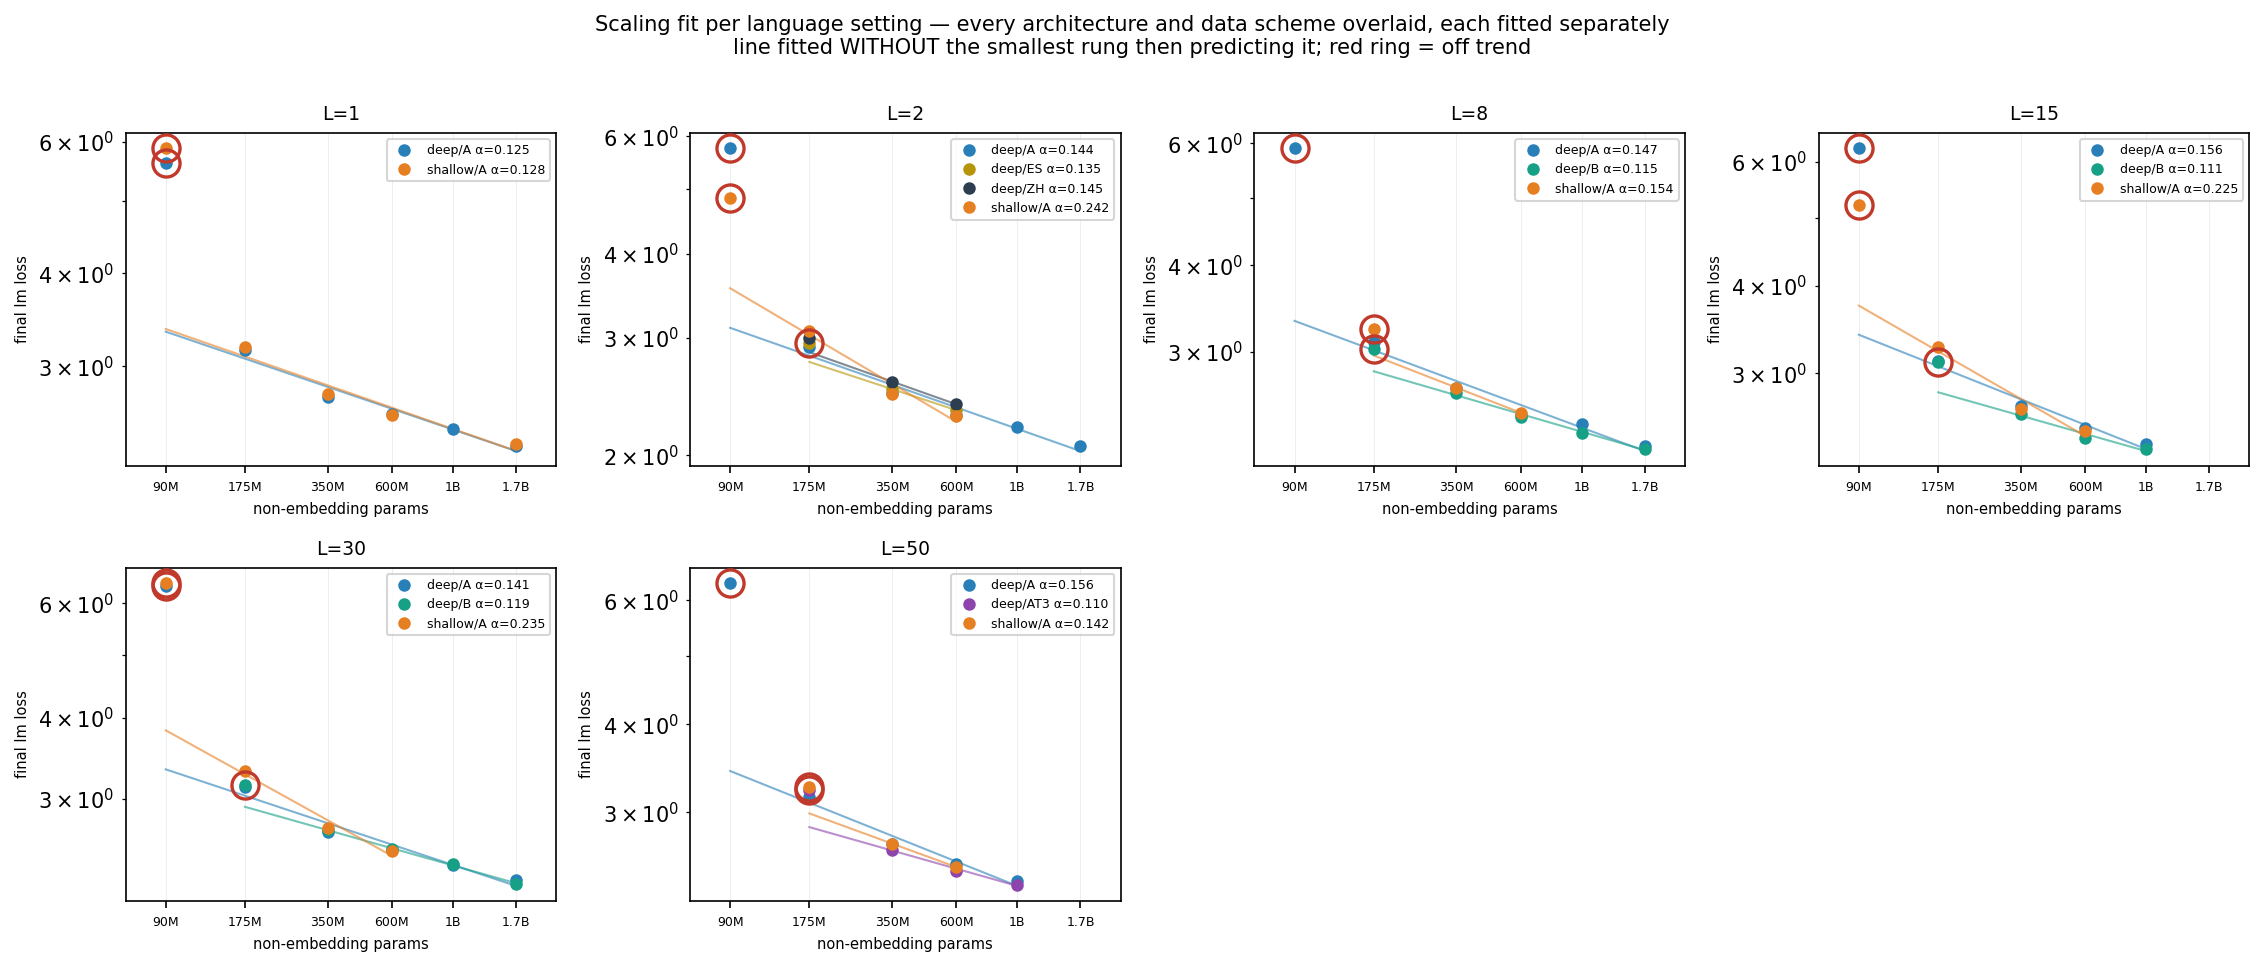
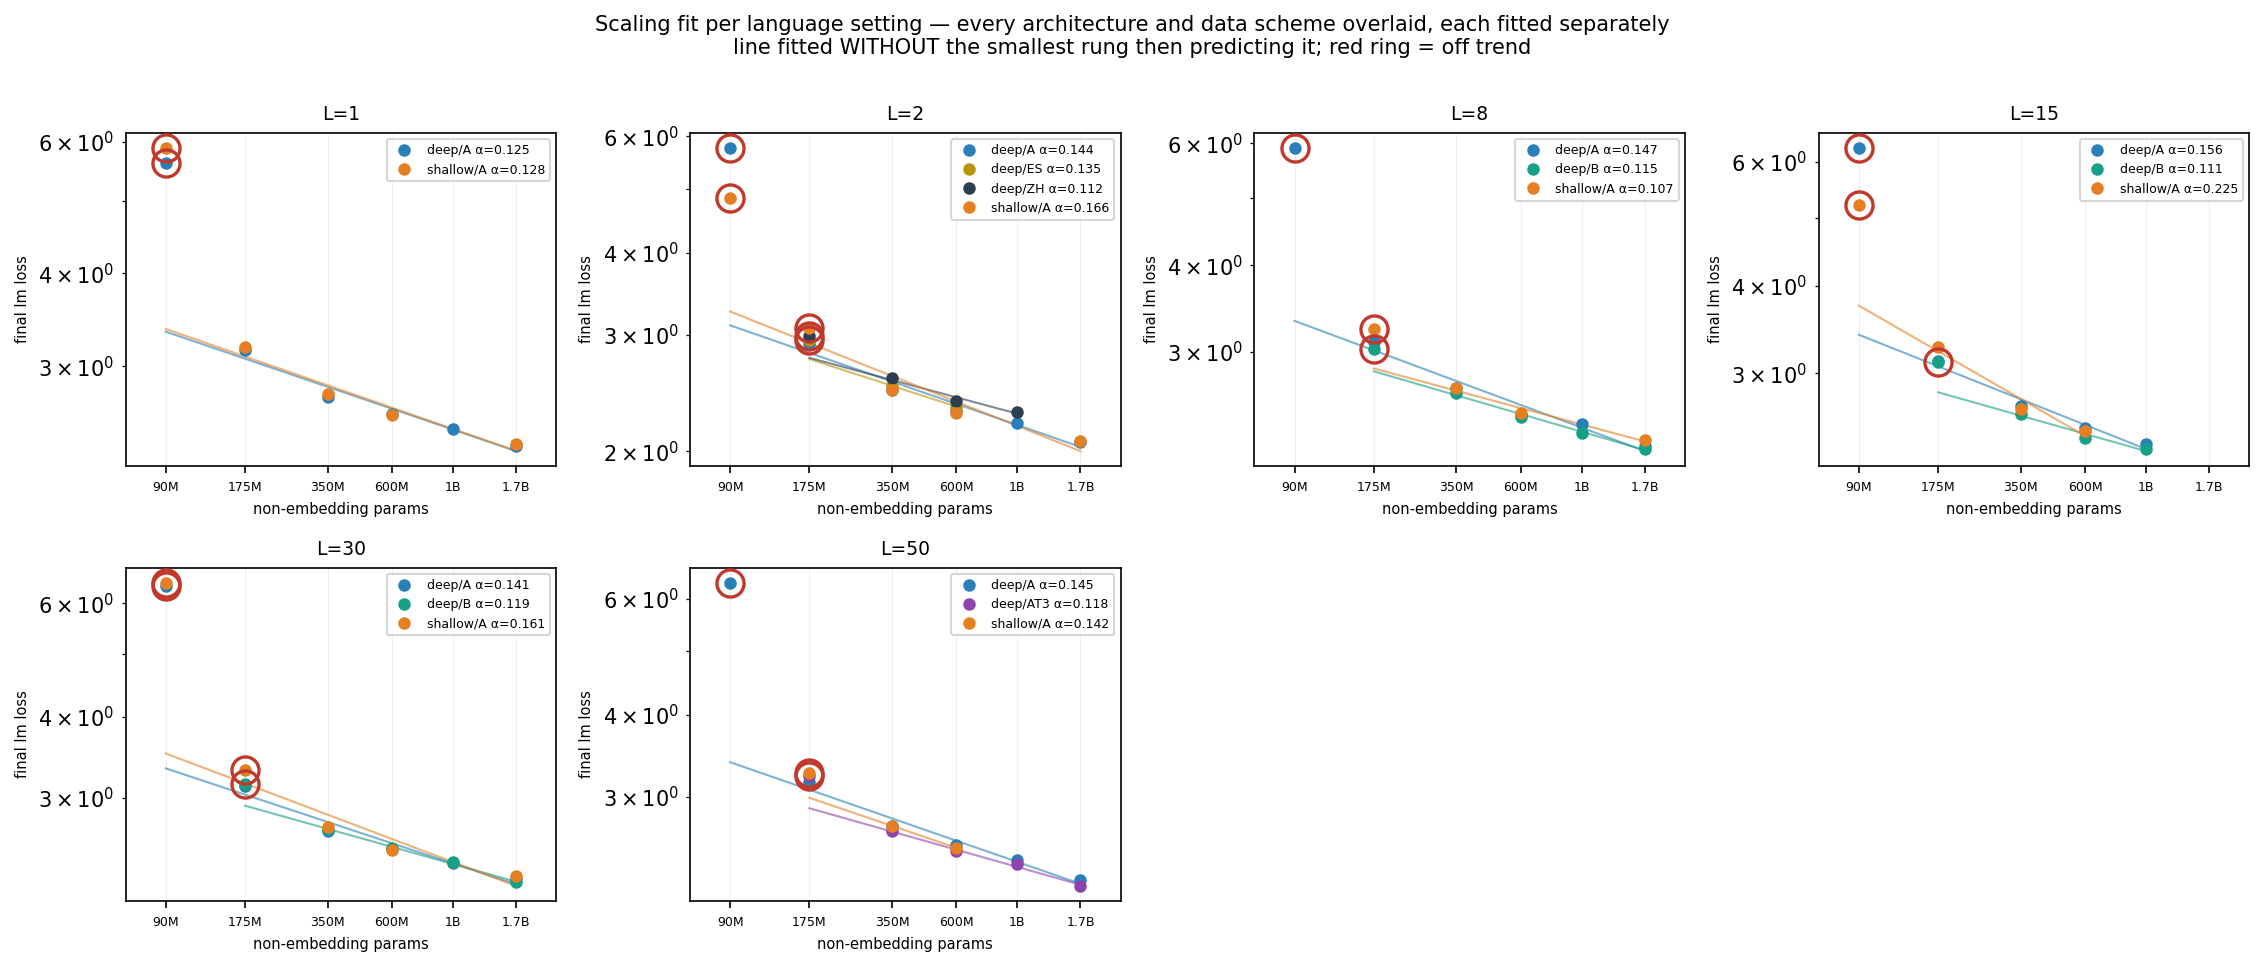
update progress

diff --git a/src/pretrain/ladder_report.md b/src/pretrain/ladder_report.md
@@ -24,41 +24,44 @@
 | 1.7B-L1-deep | 2.349 | 2.317 (79703) |  | +0.04 | 1.504 |
 | 1.7B-L1-shallow | 2.359 | 2.326 (79703) |  | +0.05 | 1.514 |
 | 90M-L2-deep | 5.762 | 4.397 (897) | **yes** | **+2.66** | 12.522 |
-| 90M-L2-shallow | 4.846 | 4.612 (1231) |  | **+1.29** | 4.363 |
+| 90M-L2-shallow | 4.846 | 4.612 (1231) |  | **+1.59** | 4.363 |
 | 175M-L2-deep | 2.904 | 2.870 (7262) |  | +0.09 | 2.094 |
 | 175M-L2-deep-seed313 | 2.945 | 2.905 (8131) |  |  | 2.100 |
 | 175M-L2-deep-seed64 | 2.930 | 2.883 (7744) |  |  | 2.084 |
 | 175M-L2-ES-deep | 2.944 | 2.907 (8205) |  | **+0.19** | 2.158 |
-| 175M-L2-ZH-deep | 2.990 | 2.952 (8424) |  | +0.14 | 2.168 |
-| 175M-L2-shallow | 3.071 | 2.997 (8130) |  | +0.04 | 2.178 |
+| 175M-L2-ZH-deep | 2.990 | 2.952 (8424) |  | **+0.22** | 2.168 |
+| 175M-L2-shallow | 3.071 | 2.997 (8130) |  | **+0.16** | 2.178 |
 | 350M-L2-deep | 2.480 | 2.423 (15914) |  | -0.07 | 1.773 |
 | 350M-L2-ES-deep | 2.512 | 2.466 (16326) |  | +0.00 | 1.829 |
-| 350M-L2-ZH-deep | 2.579 | 2.538 (16161) |  | +0.00 | 1.849 |
-| 350M-L2-shallow | 2.474 | 2.418 (15914) |  | -0.08 | 1.764 |
+| 350M-L2-ZH-deep | 2.579 | 2.538 (16161) |  | +0.02 | 1.849 |
+| 350M-L2-shallow | 2.474 | 2.418 (15914) |  | -0.13 | 1.764 |
 | 600M-L2-deep | 2.297 | 2.266 (26341) |  | -0.06 | 1.669 |
 | 600M-L2-deep-seed313 | 2.293 | 2.257 (28033) |  |  | 1.655 |
 | 600M-L2-deep-seed64 | 2.315 | 2.252 (28234) |  |  | 1.649 |
 | 600M-L2-ES-deep | 2.337 | 2.301 (28245) |  | +0.00 | 1.734 |
-| 600M-L2-ZH-deep | 2.384 | 2.371 (27424) |  | +0.00 | 1.750 |
-| 600M-L2-shallow | 2.289 | 2.249 (29787) |  | +0.04 | 1.650 |
+| 600M-L2-ZH-deep | 2.384 | 2.371 (27424) |  | -0.03 | 1.750 |
+| 600M-L2-shallow | 2.289 | 2.249 (29787) |  | -0.09 | 1.650 |
 | 1B-L2-deep-seed1797 | 2.170 | 2.139 (43413) |  |  | 1.570 |
 | 1B-L2-deep | 2.205 | 2.139 (45032) |  | +0.01 | 1.569 |
 | 1B-L2-deep-seed28 | 2.212 | 2.143 (44502) |  |  | 1.564 |
+| 1B-L2-ZH-deep | 2.294 | 2.247 (44526) |  | +0.01 | — |
 | 1.7B-L2-deep | 2.067 | 2.027 (79128) |  | +0.04 | 1.483 |
+| 1.7B-L2-shallow | 2.073 | 2.026 (79128) |  | +0.07 | — |
 | 90M-L8-deep | 5.906 | 4.536 (830) | **yes** | **+2.58** | 17.068 |
 | 175M-L8-deep | 3.102 | 3.068 (8200) |  | +0.09 | 2.060 |
 | 175M-L8-schemeB-deep | 3.027 | 3.012 (8178) |  | **+0.22** | 2.046 |
-| 175M-L8-shallow | 3.238 | 3.175 (8200) |  | **+0.28** | 2.150 |
+| 175M-L8-shallow | 3.238 | 3.175 (8200) |  | **+0.40** | 2.150 |
 | 350M-L8-deep | 2.659 | 2.615 (14841) |  | -0.06 | 1.744 |
 | 350M-L8-schemeB-deep | 2.613 | 2.560 (16223) |  | +0.02 | 1.746 |
-| 350M-L8-shallow | 2.662 | 2.609 (16743) |  | +0.00 | 1.753 |
+| 350M-L8-shallow | 2.662 | 2.609 (16743) |  | +0.03 | 1.753 |
 | 600M-L8-deep | 2.432 | 2.432 (28800) |  | -0.08 | 1.643 |
 | 600M-L8-schemeB-deep | 2.418 | 2.384 (27275) |  | -0.02 | 1.640 |
-| 600M-L8-shallow | 2.450 | 2.422 (29361) |  | +0.00 | 1.637 |
+| 600M-L8-shallow | 2.450 | 2.422 (29361) |  | -0.04 | 1.637 |
 | 1B-L8-deep | 2.357 | 2.298 (44913) |  | +0.03 | 1.586 |
 | 1B-L8-schemeB-deep | 2.293 | 2.262 (44965) |  | -0.01 | 1.554 |
 | 1.7B-L8-deep | 2.193 | 2.164 (80534) |  | +0.04 | 1.460 |
 | 1.7B-L8-schemeB-deep | 2.174 | 2.124 (79429) |  | +0.01 | 1.454 |
+| 1.7B-L8-shallow | 2.238 | 2.176 (80534) |  | +0.01 | — |
 | 90M-L15-deep | 6.282 | 4.595 (698) | **yes** | **+2.88** | 5.225 |
 | 90M-L15-shallow | 5.208 | 4.818 (685) | **yes** | **+1.46** | 4.728 |
 | 175M-L15-deep | 3.119 | 3.089 (8108) |  | +0.05 | 1.936 |
@@ -70,19 +73,19 @@
 | 600M-L15-deep | 2.506 | 2.477 (27805) |  | -0.03 | 1.595 |
 | 600M-L15-schemeB-deep | 2.429 | 2.405 (27865) |  | -0.03 | 1.609 |
 | 600M-L15-shallow | 2.487 | 2.459 (29787) |  | +0.04 | 1.570 |
-| 1B-L15-deep | 2.378 | 2.327 (44913) |  | +0.04 | — |
+| 1B-L15-deep | 2.378 | 2.327 (44913) |  | +0.04 | 1.500 |
 | 1B-L15-schemeB-deep | 2.339 | 2.275 (44768) |  | +0.01 | 1.524 |
 | 90M-L30-deep | 6.389 | 4.475 (766) | **yes** | **+3.06** | 6.525 |
-| 90M-L30-shallow | 6.452 | 4.885 (599) | **yes** | **+2.63** | 4.743 |
+| 90M-L30-shallow | 6.452 | 4.885 (599) | **yes** | **+2.94** | 4.743 |
 | 175M-L30-deep | 3.129 | 3.085 (8397) |  | +0.10 | 1.766 |
 | 175M-L30-schemeB-deep | 3.154 | 3.121 (8308) |  | **+0.24** | 1.819 |
-| 175M-L30-shallow | 3.313 | 3.279 (8203) |  | +0.04 | 1.886 |
+| 175M-L30-shallow | 3.313 | 3.279 (8203) |  | **+0.16** | 1.886 |
 | 350M-L30-deep | 2.666 | 2.644 (16294) |  | -0.08 | 1.551 |
 | 350M-L30-schemeB-deep | 2.684 | 2.634 (14913) |  | -0.00 | 1.561 |
-| 350M-L30-shallow | 2.703 | 2.652 (16294) |  | -0.08 | 1.543 |
+| 350M-L30-shallow | 2.703 | 2.652 (16294) |  | -0.12 | 1.543 |
 | 600M-L30-deep | 2.498 | 2.475 (28069) |  | -0.05 | 1.451 |
 | 600M-L30-schemeB-deep | 2.512 | 2.453 (28792) |  | -0.01 | 1.469 |
-| 600M-L30-shallow | 2.490 | 2.464 (29059) |  | +0.04 | 1.440 |
+| 600M-L30-shallow | 2.490 | 2.464 (29059) |  | -0.10 | 1.440 |
 | 1B-L30-deep-seed1797 | 2.374 | 2.335 (43862) |  |  | 1.380 |
 | 1B-L30-deep | 2.373 | 2.327 (44990) |  | +0.00 | 1.373 |
 | 1B-L30-deep-seed28 | 2.375 | 2.336 (44395) |  |  | 1.372 |
@@ -91,30 +94,33 @@
 | 1B-L30-schemeB-deep-seed28 | 2.395 | 2.334 (44588) |  |  | 1.393 |
 | 1.7B-L30-deep | 2.249 | 2.190 (80714) |  | +0.05 | 1.280 |
 | 1.7B-L30-schemeB-deep | 2.218 | 2.181 (79461) |  | -0.01 | 1.296 |
-| 90M-L50-deep | 6.349 | 4.538 (790) | **yes** | **+2.91** | 6.977 |
-| 175M-L50-deep | 3.156 | 3.121 (7262) |  | +0.06 | 1.601 |
+| 1.7B-L30-shallow | 2.267 | 2.202 (78780) |  | +0.08 | — |
+| 90M-L50-deep | 6.349 | 4.538 (790) | **yes** | **+2.96** | 6.977 |
+| 175M-L50-deep | 3.156 | 3.121 (7262) |  | +0.08 | 1.601 |
 | 175M-L50-deep-seed313 | 3.147 | 3.107 (8433) |  |  | 1.601 |
 | 175M-L50-deep-seed64 | 3.193 | 3.143 (8236) |  |  | 1.625 |
-| 175M-L50-AT3-deep | 3.223 | 3.151 (8397) |  | **+0.36** | 1.584 |
+| 175M-L50-AT3-deep | 3.223 | 3.151 (8397) |  | **+0.34** | 1.584 |
 | 175M-L50-shallow | 3.263 | 3.206 (8229) |  | **+0.27** | 1.656 |
-| 350M-L50-deep | 2.708 | 2.666 (15570) |  | -0.07 | 1.371 |
-| 350M-L50-AT3-deep | 2.659 | 2.643 (15914) |  | +0.01 | 1.342 |
+| 350M-L50-deep | 2.708 | 2.666 (15570) |  | -0.08 | 1.371 |
+| 350M-L50-AT3-deep | 2.659 | 2.643 (15914) |  | +0.00 | 1.342 |
 | 350M-L50-shallow | 2.710 | 2.667 (15570) |  | +0.00 | 1.376 |
-| 600M-L50-deep | 2.532 | 2.498 (28656) |  | -0.02 | 1.302 |
+| 600M-L50-deep | 2.532 | 2.498 (28656) |  | -0.04 | 1.302 |
 | 600M-L50-deep-seed313 | 2.519 | 2.478 (28465) |  |  | 1.282 |
 | 600M-L50-deep-seed64 | 2.521 | 2.482 (28708) |  |  | 1.278 |
-| 600M-L50-AT3-deep | 2.481 | 2.457 (27994) |  | -0.02 | 1.255 |
+| 600M-L50-AT3-deep | 2.481 | 2.457 (27994) |  | -0.01 | 1.255 |
 | 600M-L50-shallow | 2.511 | 2.476 (29598) |  | +0.00 | 1.276 |
-| 1B-L50-deep | 2.402 | 2.336 (44736) |  | +0.04 | 1.209 |
-| 1B-L50-AT3-deep | 2.369 | 2.312 (42623) |  | +0.01 | — |
+| 1B-L50-deep | 2.402 | 2.336 (44736) |  | +0.01 | 1.209 |
+| 1B-L50-AT3-deep | 2.369 | 2.312 (42623) |  | +0.02 | — |
+| 1.7B-L50-deep | 2.243 | 2.194 (79351) |  | +0.03 | — |
+| 1.7B-L50-AT3-deep | 2.197 | 2.163 (78221) |  | -0.01 | — |
 
 ## Effect of each transformation
 
 | transformation | pairs | Δ final loss | Δ macro BPB | Δ mean benchmark |
 | -------------- | ----: | -----------: | ----------: | ---------------: |
 | seed | 30 | -0.061 .. +0.049 | -0.050 .. +0.034 | -0.045 .. +0.007 |
-| arch | 23 | -1.074 .. +0.259 | -8.159 .. +0.120 | -0.052 .. +0.014 |
-| scheme | 26 | -0.077 .. +0.099 | -0.046 .. +0.103 | -0.057 .. +0.014 |
+| arch | 26 | -1.074 .. +0.259 | -8.159 .. +0.120 | -0.052 .. +0.014 |
+| scheme | 28 | -0.077 .. +0.099 | -0.046 .. +0.103 | -0.057 .. +0.014 |
 
 **Read this against the `seed` row.** A transformation whose effect is no larger than re-rolling the seed is not a distinct model for SNR — it is the same model measured twice. An em dash means no matched pair exists yet.
 

diff --git a/plan/todos/status-09-15.md b/plan/todos/status-09-15.md
@@ -1,0 +1,73 @@
+# Commands
+
+Finish training and eval grid.
+
+✅ resume training of 1.7B models:
+python3.11 pretrain/launch_trainings.py cscs --size 1.7B
+python3.11 pretrain/launch_trainings.py cscs --size 1.7B --scheme B 
+python3.11 pretrain/launch_trainings.py cscs --size 1.7B --arch shallow
+python3.11 pretrain/launch_trainings.py cscs --size 1.7B --scheme B --arch shallow
+python3.11 pretrain/launch_trainings.py cscs --size 1.7B --scheme AT3
+python3.11 pretrain/launch_trainings.py cscs --size 1.7B --scheme AT3 --arch shallow
+python3.11 pretrain/launch_trainings.py cscs --size 1B --scheme AT3 --arch shallow
+
+cd Projects/snr-multilingual/ && bash scripts/reservation_drain.sh --max-nodes 84
+scontrol update jobid=3398524 reservation=SD-69241-apertus-1-5-0 
+
+✅ eval new ckpts:
+bash evals/scripts/launch_bpb.sh
+python3.11 pretrain/auto_evals_cscs.py --watch 1200
+
+✅ save new results:
+python3.11 pretrain/ladder_report.py --plot --publish --push-hf --push-git
+sbatch evals/scripts/mirror_eval_logs.sbatch 
+
+cd Projects/snr-multilingual/ && bash scripts/reservation_drain.sh --max-nodes 45  --interval 1800
+
+# Training
+
+Define L100:
+- Add language-specific tasks
+- Decide L100 list, build data mix, launch pretrainings
+
+# Evals
+
+BPB:
+- calculate BPB with final L100 validation
+- calculate absolute BPB (see details below)
+
+Update tasks list and reeval:
+- Add language-specific tasks
+- Add INCLUDE v2
+- Switch or drop LAMBADA-MT
+- Reeval after worker implementation
+- Change eval QA format
+    - https://huggingface.co/datasets/HuggingFaceFW/fineweb/blob/main/lighteval_tasks.py
+    - https://arxiv.org/pdf/2412.04403
+
+# Analysis
+
+Define RQs:
+- Define final RQs
+- Design main figure for each RQ
+
+Backlog:
+- Implement flops params?
+- Get the changes from pretrain-eval-azure in local branch (pull --rebase)
+
+# Paper
+
+- Write methodology
+- Draft analysis section with RQs, experimental setup and expected finding
+- Write introduction
+- Write abstract
+- [DEADLINE] Friday 18/09: Abstract deadline
+- [DEADLINE] Monday 21/09: Share paper with colleagues
+- [DEADLINE] Friday 25/09: Paper deadline
+
+# aromanou
+
+- launch pretraining of 1B shallow models
+- decide language distribution for low-resource language experiments
+- launch pretraining of <=1B low-resource experiment models
+- research RQ2 about 

diff --git a/plan/todos/status-09-14.md b/plan/todos/status-09-14.md
@@ -1,0 +1,48 @@
+# Training
+
+✅ resume training of 1.7B L15 and L50 with new data mixture:
+python3.11 pretrain/launch_trainings.py cscs --size 1.7B --dry-run
+python3.11 pretrain/launch_trainings.py cscs --size 1.7B --scheme B 
+python3.11 pretrain/launch_trainings.py cscs --size 1.7B --arch shallow
+python3.11 pretrain/launch_trainings.py cscs --size 1.7B --scheme B --arch shallow
+
+✅ resume training of L2 mixtures:
+python3.11 pretrain/launch_trainings.py cscs --scheme ZH --size 1B
+python3.11 pretrain/launch_trainings.py cscs --scheme ES --size 1B
+
+✅ resume training of AT3 mixture:
+python3.11 pretrain/launch_trainings.py cscs --size 1.7B --scheme AT3
+python3.11 pretrain/launch_trainings.py cscs --size 1.7B --scheme AT3 --arch shallow
+python3.11 pretrain/launch_trainings.py cscs --size 1B --scheme AT3 --arch shallow
+
+
+cd Projects/snr-multilingual/ && bash scripts/reservation_drain.sh --max-nodes 84
+scontrol update jobid=3398524 reservation=SD-69241-apertus-1-5-0 
+
+# Evals
+
+✅ bash evals/scripts/launch_bpb.sh
+✅ python3.11 pretrain/auto_evals_cscs.py --watch 1200
+
+✅ python3.11 pretrain/ladder_report.py --plot --publish --push-hf --push-git
+✅ sbatch evals/scripts/mirror_eval_logs.sbatch 
+
+cd Projects/snr-multilingual/ && bash scripts/reservation_drain.sh --max-nodes 45  --interval 1800
+
+# ToDos
+
+- decide L100 list, build data mix, launch pretrainings
+- calculate absolute BPB (see details below)
+- Reeval after worker implementation
+- Add language-specific tasks
+- Change eval QA format
+- Add INCLUDE v2
+- Switch or drop LAMBADA-MT
+- Get the changes from pretrain-eval-azure in local branch (pull --rebase)
+- Implement flops params?
+- Write methodology
+- Consider models needed language interference study
+
+aromanou:
+- launch pretraining of 1B shallow models
+- launch pretraining of <=1B low-resource experiment models
